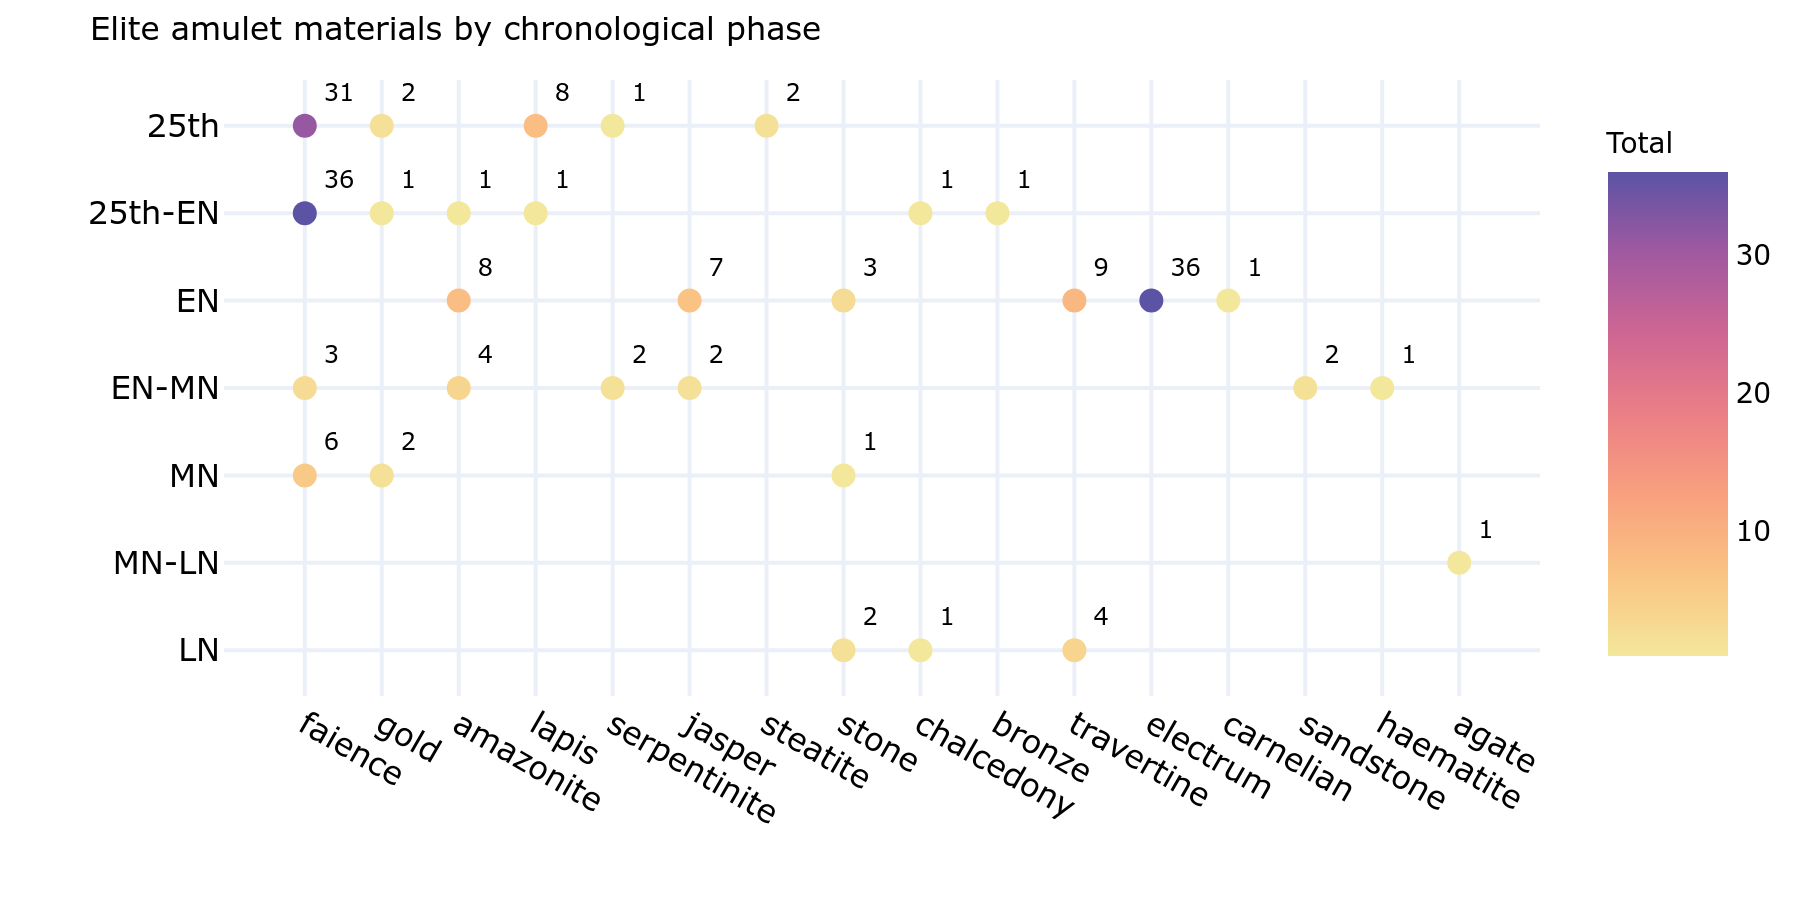
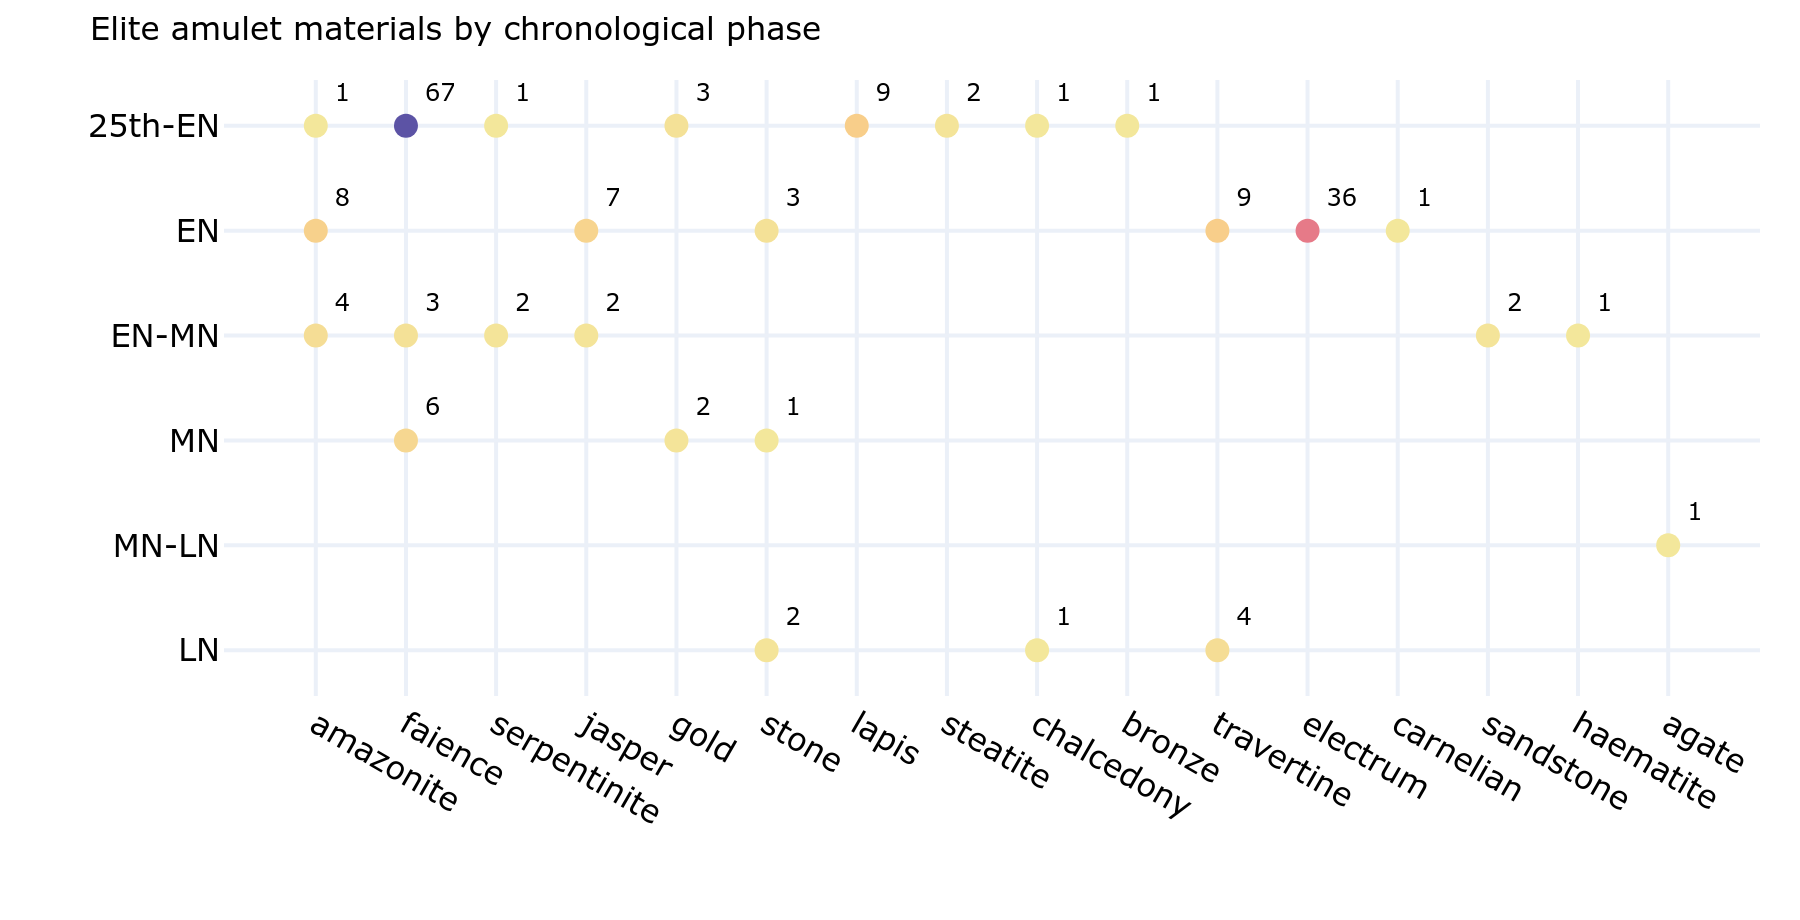
revision chapter6

diff --git a/chapter6/phase_motif_1.py b/chapter6/phase_motif_1.py
@@ -1,0 +1,104 @@
+import pandas as pd
+import plotly.express as px
+from sqlalchemy import create_engine
+import plotly.io as pio
+import plotly.graph_objects as go
+import os
+from dotenv import load_dotenv
+
+load_dotenv()
+
+engine = create_engine(f'mysql+pymysql://{os.getenv("DB_USER")}:{os.getenv("DB_PASSWORD")}@localhost/{os.getenv("DB_NAME")}')
+
+query = """
+select
+	temp_early,
+    temp_late,
+    social_group,
+    a.form,
+    count(amulet_id) as total
+from burials b
+join amulets a on a.burial_id = b.burial_id
+where dating = 'napatan' and b.site_id in (1,2,4,5,6,7,8,9,10) and type = 'deity'
+group by 1,2,3,4
+"""
+
+df = pd.read_sql(query, engine)
+
+custom_colors = ['#e9724d', '#92cad1', '#d6d727', '#79ccb3', '#868686',
+                 '#8b4513', '#2f4f4f', '#ff6b4a', '#20b2aa', '#daa520',
+                 '#cd5c5c', '#4682b4', '#e8ea7a', '#98fb98', '#696969']
+
+phase_order = ["pre-25th", "25th", "EN", "MN", "LN"]
+
+# empty list to store
+expanded_rows = []
+
+# iterate over rows to find same phases (one row) or two phases (one row for each)
+for _, row in df.iterrows():
+    # If single-phase burial (temp_early == temp_late)
+    if row['temp_early'] == row['temp_late']:
+        # Count only once for that phase
+        expanded_rows.append({
+            'phase': row['temp_early'],
+            'social_group': row['social_group'],
+            'form': row['form'],
+            'total': row['total']
+        })
+    else:
+        # Multi-phase burial: count in BOTH phases
+        expanded_rows.append({
+            'phase': row['temp_early'],
+            'social_group': row['social_group'],
+            'form': row['form'],
+            'total': row['total']
+        })
+        expanded_rows.append({
+            'phase': row['temp_late'],
+            'social_group': row['social_group'],
+            'form': row['form'],
+            'total': row['total']
+        })
+
+# transform list into df
+df_expanded = pd.DataFrame(expanded_rows)
+
+# aggregation by phase and type
+df_grouped = df_expanded.groupby(['phase', 'social_group', 'form'], as_index=False)['total'].sum()
+
+# put in correct order
+df_grouped['phase'] = pd.Categorical(df_grouped['phase'], categories=phase_order, ordered=True)
+
+# sort by phase and then type
+df_grouped = df_grouped.sort_values(['form'], ascending=False)
+
+df_grouped = df_grouped.sort_values(['phase', 'form'], ascending=[True, False])
+
+fig = px.scatter(
+    df_grouped,
+    x="phase",
+    y="form",
+    color="total",
+    facet_col='social_group',
+    title="",
+    color_continuous_scale='Sunset',
+    template="plotly_white",
+    labels={"social_group": "status"}
+)
+
+fig.update_layout(
+    font=dict(
+        family="Verdana, sans-serif",
+        color='black',
+        size=6),
+    legend_title_text='',
+    title_font=dict(size=6),
+    margin=dict(l=0, r=0, t=20, b=0),
+    autosize=True
+)
+
+fig.update_traces(textposition='top right', textfont_size=5)
+fig.update_yaxes(title='')
+fig.update_xaxes(title='', matches=True)
+
+pio.write_image(fig, 'images/chapter6/phase_motif_deity.png',scale=3, width=500, height=500)

diff --git a/chapter6/phase_type.py b/chapter6/phase_type.py
@@ -1,0 +1,102 @@
+import pandas as pd
+import plotly.express as px
+from sqlalchemy import create_engine
+import plotly.io as pio
+import plotly.graph_objects as go
+import os
+from dotenv import load_dotenv
+
+load_dotenv()
+
+engine = create_engine(f'mysql+pymysql://{os.getenv("DB_USER")}:{os.getenv("DB_PASSWORD")}@localhost/{os.getenv("DB_NAME")}')
+
+query = """
+select
+	temp_early,
+    temp_late,
+    social_group,
+    a.type,
+    count(amulet_id) as total
+from burials b
+join amulets a on a.burial_id = b.burial_id
+where dating = 'napatan' and b.site_id in (1,2,4,5,6,7,8,9,10)
+group by 1,2,3,4
+"""
+
+df = pd.read_sql(query, engine)
+
+custom_colors = ['#e9724d', '#92cad1', '#d6d727', '#79ccb3', '#868686',
+                 '#8b4513', '#2f4f4f', '#ff6b4a', '#20b2aa', '#daa520',
+                 '#cd5c5c', '#4682b4', '#e8ea7a', '#98fb98', '#696969']
+
+phase_order = ["pre-25th", "25th", "EN", "MN", "LN"]
+
+# empty list to store
+expanded_rows = []
+
+# iterate over rows to find same phases (one row) or two phases (one row for each)
+for _, row in df.iterrows():
+    # If single-phase burial (temp_early == temp_late)
+    if row['temp_early'] == row['temp_late']:
+        # Count only once for that phase
+        expanded_rows.append({
+            'phase': row['temp_early'],
+            'social_group': row['social_group'],
+            'type': row['type'],
+            'total': row['total']
+        })
+    else:
+        # Multi-phase burial: count in BOTH phases
+        expanded_rows.append({
+            'phase': row['temp_early'],
+            'social_group': row['social_group'],
+            'type': row['type'],
+            'total': row['total']
+        })
+        expanded_rows.append({
+            'phase': row['temp_late'],
+            'social_group': row['social_group'],
+            'type': row['type'],
+            'total': row['total']
+        })
+
+# transform list into df
+df_expanded = pd.DataFrame(expanded_rows)
+
+# aggregation by phase and type
+df_grouped = df_expanded.groupby(['phase', 'social_group', 'type'], as_index=False)['total'].sum()
+
+# put in correct order
+df_grouped['phase'] = pd.Categorical(df_grouped['phase'], categories=phase_order, ordered=True)
+
+# sort by phase and then type
+df_grouped = df_grouped.sort_values(['phase', 'social_group', 'type'])
+
+fig = px.line(
+    df_grouped,
+    x='phase',
+    y='total',
+    color='social_group',
+    facet_col='type',
+    facet_col_wrap=2,
+    template="plotly_white",
+    title='Total Amulets per Type over Chronological Phases',
+    color_discrete_sequence=custom_colors
+)
+
+fig.update_layout(
+    font=dict(
+        family="Verdana, sans-serif",
+        color='black',
+        size=8),
+    legend_title_text='',
+    margin=dict(l=0, r=10, t=50, b=0),
+    autosize=True,
+    title_font=dict(size=8)
+)
+
+fig.update_traces(textposition='top right', textfont_size=5)
+fig.update_yaxes(title='', tickmode='linear', dtick=1000)
+fig.update_xaxes(title='')
+
+pio.write_image(fig, 'images/chapter6/phase_type.png',scale=3, width=550, height=350)

diff --git a/chapter5/non-elite/25th_dynasty-early_napatan/25-EN_objects.py b/chapter5/non-elite/25th_dynasty-early_napatan/25-EN_objects.py
@@ -50,8 +50,8 @@ custom_colors = ['#e9724d', '#92cad1', '#d6d727', '#79ccb3', '#868686']
 
 fig = px.scatter(
     df,
-    x="site_name",
-    y="artifact_type",
+    x="artifact_type",
+    y="site_name",
     color="total",
     text="total",
     title="25th Dynasty-Early Napatan non-elite object types",
@@ -81,8 +81,9 @@ fig.update_layout(
     title_font=dict(size=8)
 )
 
-fig.update_traces(textposition='middle right', textfont_size=6)
+fig.update_traces(textposition='top center', textfont_size=6)
 fig.update_xaxes(title_text='', categoryorder='category ascending')
 fig.update_yaxes(title_text='', categoryorder='category descending')
+fig.update_coloraxes(showscale=False)
 
-pio.write_image(fig, 'images/chapter5/25-EN_objects.png',scale=3, width=550, height=450)
+pio.write_image(fig, 'images/chapter5/25-EN_objects.png',scale=3, width=550, height=280)

diff --git a/chapter6/test2.py b/chapter6/test2.py
@@ -30,14 +30,14 @@ custom_colors = ['#79ccb3','#e9724d', '#92cad1', '#d6d727', '#868686', '#be8a60'
 phase_order = ["pre-25th", "25th", "25th-EN", "EN", "25th-MN", "EN-MN", "EN-LN", "MN", "MN-LN", "LN"]
 
 # Convert 'phase' to ordered categorical for correct x-axis order
-df_grouped['phase'] = pd.Categorical(df_grouped['phase'], categories=phase_order, ordered=True)
+df['phase'] = pd.Categorical(df['phase'], categories=phase_order, ordered=True)
 
 # Sort by phase
-df_grouped = df_grouped.sort_values('phase')
+df = df.sort_values('phase')
 
 # Plot line chart with Plotly Express, one line per amulet type
 fig = px.line(
-    df_grouped,
+    df,
     x='phase',
     y='total',
     color='type',

diff --git a/chapter5/elite/elite_amulets_form_1.py b/chapter5/elite/elite_amulets_form_1.py
@@ -130,5 +130,6 @@ fig.update_layout(
 fig.update_traces(textposition='top center', textfont_size=6)
 fig.update_xaxes(title_text='')
 fig.update_yaxes(title_text='', categoryorder='array', categoryarray=phase_order[::-1])
+fig.update_coloraxes(showscale=False)
 
 pio.write_image(fig, 'images/chapter5/elite_amulets_form_temp_1.png',scale=4, width=550, height=260)

diff --git a/chapter5/elite/elite_amulets_form_2.py b/chapter5/elite/elite_amulets_form_2.py
@@ -133,5 +133,6 @@ fig.update_layout(
 fig.update_traces(textposition='top center', textfont_size=6)
 fig.update_xaxes(title_text='')
 fig.update_yaxes(title_text='', categoryorder='array', categoryarray=phase_order[::-1])
+fig.update_coloraxes(showscale=False)
 
 pio.write_image(fig, 'images/chapter5/elite_amulets_form_temp_2.png',scale=4, width=550, height=210)

diff --git a/chapter5/elite/elite_amulets_type_temp.py b/chapter5/elite/elite_amulets_type_temp.py
@@ -87,5 +87,6 @@ fig.update_layout(
 fig.update_traces(textposition='top right', textfont_size=6)
 fig.update_xaxes(title_text='')
 fig.update_yaxes(title_text='', categoryorder='array', categoryarray=phase_order[::-1])
+fig.update_coloraxes(showscale=False)
 
 pio.write_image(fig, 'images/chapter5/elite_amulets_type_temp.png',scale=4, width=450, height=200)

diff --git a/chapter5/elite/elite_amulets_mat_temp.py b/chapter5/elite/elite_amulets_mat_temp.py
@@ -83,5 +83,6 @@ fig.update_layout(
 fig.update_traces(textposition='top right', textfont_size=6)
 fig.update_xaxes(title_text='')
 fig.update_yaxes(title_text='', categoryorder='array', categoryarray=phase_order[::-1])
+fig.update_coloraxes(showscale=False)
 
 pio.write_image(fig, 'images/chapter5/elite_amulets_mat_temp.png',scale=4, width=450, height=230)

diff --git a/chapter5/elite/elite_features.py b/chapter5/elite/elite_features.py
@@ -94,5 +94,6 @@ fig.update_layout(
 fig.update_traces(textposition='top right', textfont_size=6)
 fig.update_xaxes(title_text='', categoryorder='array', categoryarray=phase_order)
 fig.update_yaxes(title_text='')
+fig.update_coloraxes(showscale=False)
 
 pio.write_image(fig, 'images/chapter5/elite_features.png',scale=3, width=500, height=190)
